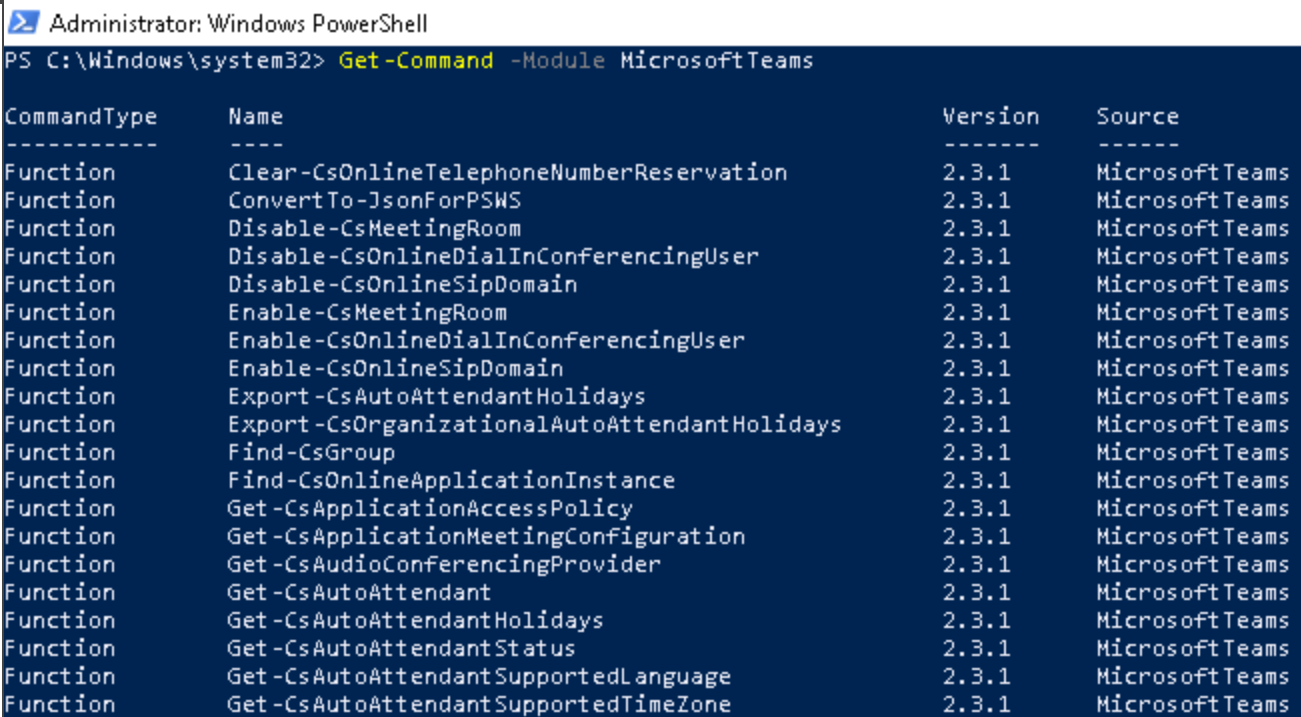
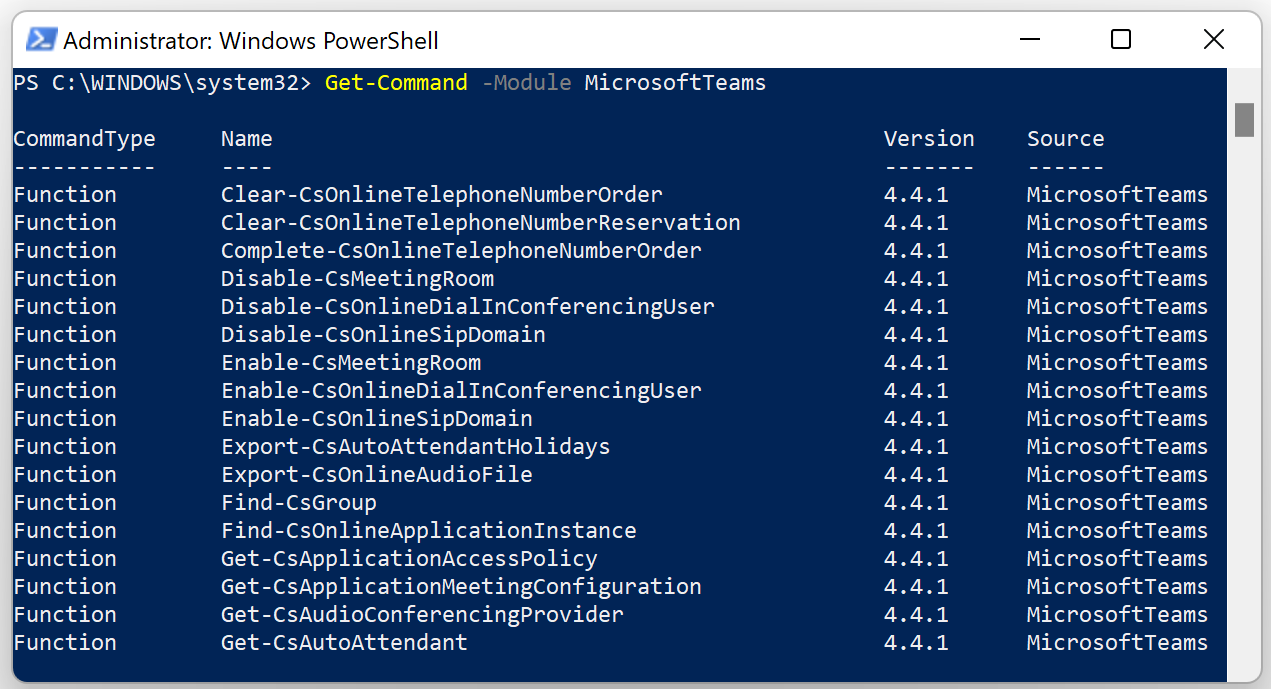
changed files by pdets auto publish service, publishid[5f0f91e5-4eea-41c9-ae62-5625b5081bd8] and do [publish].

diff --git a/learn-m365-pr/wwl/plan-deploy-microsoft-teams/includes/6-plan-for-teams-licensing.md b/learn-m365-pr/wwl/plan-deploy-microsoft-teams/includes/6-plan-for-teams-licensing.md
@@ -21,27 +21,27 @@ For a quick summary of the differences between Teams and Teams free, see [Differ
 
 ## Microsoft Teams add-on licenses
 
-Besides basic Teams features, there are add-on licenses for more features such as audio conferencing, phone system, calling plans, and Microsoft Teams rooms.
+Besides basic Teams features, there are add-on licenses for more features such as audio conferencing,  Teams Phone, calling plans, and Microsoft Teams rooms.
 
-* For audio conferencing, organizations will need to buy and assign an audio-conferencing license to each user who will set up dial-in meetings. 
+* For audio conferencing, organizations will need to buy and assign an audio-conferencing license to each user who will set up dial-in meetings.
 
-* For calling plans, each user will need a phone system plus a domestic or domestic and international calling plan. The table below lists the add-on licenses available for Teams:
+* For calling plans, each user will need a Teams Phone, plus a domestic or domestic and international calling plan. The add-on licensing options available to you depend on the Microsoft 365 or Office 365 plan you have.
 
-Here's a list of features that you can add with Teams add-on licenses. The add-on licensing options available to you depend on the Microsoft 365 or Office 365 plan you have.
+Here's a list of features that you can add with Teams add-on licenses. 
 
+|License|Description|
+|-------|-----------|
+|**Teams Phone with Calling Plan bundle** <br/> |The Teams Phone with Calling Plan license bundles Teams Phone System's PBX capabilities and a Domestic Calling Plan for PSTN connectivity. <br/> |
+|**Teams Phone Standard<br/>(Teams Phone System)** <br/> |[Teams Phone System](/microsoftteams/what-is-phone-system-in-office-365?azure-portal=true) is a hosted telephone service that gives you call control and Private Branch Exchange (PBX) capabilities. Teams Phone Standard licenses give you all Teams Phone System capabilities like cloud voicemail, caller ID, call park, call forwarding, auto attendants, call queues, call transfer, and caller ID. <br/> <br/>To learn more about Phone System, see [Here's what you get with Teams Phone System](/microsoftteams/here-s-what-you-get-with-phone-system?azure-portal=true). <br/> |
+|**Microsoft Teams Calling Plans** <br/> |If you want users to be able to call phone numbers outside your organization, you can purchase [Microsoft Teams Calling Plans](/microsoftteams/calling-plans-for-office-365?azure-portal=true) to connect to PSTN phone numbers with Microsoft as your PSTN provider. There are Domestic Calling Plans, International Calling Plans, and Domestic and International Calling Plans. <br/> <br/> To find out whether Teams Calling Plans is available in your country or region, see [Country and region availability for Audio Conferencing and Calling Plans](/microsoftteams/country-and-region-availability-for-audio-conferencing-and-calling-plans/country-and-region-availability-for-audio-conferencing-and-calling-plans?azure-portal=true). |
+|**Communication Credits** | Communication Credits provide a monthly pool of minutes that can also be used for PSTN phone calls, if all your Calling Plan minutes get used before the beginning of the next month.<br/><br/> If you want toll-free numbers for Audio Conferencing, auto attendants, or call queues, you'll need to [set up Communications Credits](/microsoftteams/set-up-communications-credits-for-your-organization?azure-portal=true). <br/> |
+|**Audio Conferencing** <br/> |Sometimes people in your organization will need to use a phone to call in to a Teams meeting instead of their computer. [Set up Audio Conferencing](/microsoftteams/set-up-audio-conferencing-in-teams?azure-portal=true) for users who schedule or lead meetings with attendees who need to call in using a phone. <br/> <br/>To find out whether Audio Conferencing is available in your country or region, see [Country and region availability for Audio Conferencing and Calling Plans](/microsoftteams/country-and-region-availability-for-audio-conferencing-and-calling-plans/country-and-region-availability-for-audio-conferencing-and-calling-plans?azure-portal=true). For pricing info, see [Pricing for Audio Conferencing](https://go.microsoft.com/fwlink/?linkid=799762).  <br/> <br/>Organizations can now use a third-party operator for their Audio Conferencing numbers. For more information, see [Plan for Operator Connect Conferencing](/microsoftteams/operator-connect-conferencing-plan?azure-portal=true). <br/>|
+|**Microsoft Teams Rooms** <br/> | Microsoft Teams Room is an additional Microsoft Teams product that brings video, audio, and content sharing to conference rooms. There are two dedicated SKUs for licensing meetings and calling on a per-device basis for meeting room devices:<br/><br/>**- Microsoft Teams Rooms Standard**<br/>**- Microsoft Teams Rooms Premium**<br/><br/>**Microsoft Teams Rooms Premium** includes a remote management service that enables customers to shift the operational responsibility of managing and monitoring Microsoft Teams Rooms to Microsoft. With Microsoft Teams Rooms Premium, customers have access to intelligent software, dedicated experts, and enhanced insights. For more information, see [Teams Meeting Room Licensing](/microsoftteams/rooms/rooms-licensing?azure-portal=true).|
 
-|**Feature** <br/> |**Description** <br/> |**Small business (<300 users)**|**Large business (>300 users)**|
-|:-----|:-----|:-----|:-----|
-|**Microsoft 365 Business Voice** <br/> | [Business Voice](/microsoftteams/business-voice/whats-business-voice?azure-portal=true) is a telephony solution designed for small and medium businesses of up to 300 users that bundles Phone System, Audio Conferencing, a Domestic Calling Plan, and more. Phone System capabilities that you'll get include voicemail, caller ID, call park, call forwarding, auto attendants, and call queues. <br> To find out whether Business Voice is available in your country or region, see [Country and region availability for Business Voice](/microsoftteams/business-voice/country-region-availability?azure-portal=true). For pricing info, see [Pricing for Business Voice](https://www.microsoft.com/microsoft-teams/voice-calling?azure-portal=true). <br/> |Yes||
-|**Audio Conferencing** <br/> |Sometimes people in your organization will need to use a phone to call in to a Teams meeting instead their computer. Set up Audio Conferencing for users who schedule or lead meetings. <br/> To find out whether Audio Conferencing is available in your country or region, see [Country and region availability for Audio Conferencing and Calling Plans](/microsoftteams/country-and-region-availability-for-audio-conferencing-and-calling-plans/country-and-region-availability-for-audio-conferencing-and-calling-plans?azure-portal=true). For pricing info, see [Pricing for Audio Conferencing](https://www.microsoft.com/microsoft-teams/audio-conferencing?azure-portal=true).  <br/> <br/>If you're a small or medium-sized business with up to 300 users and you currently don’t have Audio Conferencing licenses, you can get Audio Conferencing free for one year. Starting October 1, 2020, the free Audio Conferencing offer is available to users who have Microsoft 365 Business Basic, Business Standard, Business Premium, Enterprise E1, or Enterprise E3 licenses. |Yes|Yes|
-|**Toll free numbers** |If you want toll-free numbers for Audio Conferencing, auto attendants, or call queues, you must set up Communications Credits. <br/> |Yes|Yes|
-|**Phone System** <br/> |Phone System is a hosted telephone service that gives you call control and Private Branch Exchange (PBX) capabilities, with options for connecting to the Public Switched Telephone Network (PSTN). Phone System features include cloud voicemail, caller ID, call park, call forwarding, auto attendants, call queues, call transfer, caller ID, and more. <br>For pricing info, see [Pricing for Phone System](https://www.microsoft.com/microsoft-teams/voice-calling#Pricing?azure-portal=true).  <br/> |Yes|Yes|
-|**Calling Plans** <br/> |If you want users to be able to call phone numbers outside your organization, get a Calling Plan. There are Domestic Calling Plans and Domestic and International Calling Plans. For pricing info, see [Pricing for Calling Plans](https://www.microsoft.com/microsoft-teams/voice-calling?linkid=799761?azure-portal=true).  <br/> |Yes|Yes|
-|**Microsoft Teams Rooms** <br/>| Microsoft Teams Rooms isn't an add-on, but a feature that brings video, audio, and content sharing to conference rooms. See [Teams Meeting Room Licensing](/microsoftteams/rooms/rooms-licensing?azure-portal=true).  <br/> |Yes|Yes|
-|**Advanced Communications** <br/> |[Advanced Communications](/microsoftteams/teams-add-on-licensing/advanced-communications?azure-portal=true) includes advanced meetings customization and tools to manage your organization's communication policies. Other features include custom branded meeting lobby to tailor your meetings, and tools to monitor, track, and analyze data on users and devices.   |Yes|Yes|
+> [!NOTE]
+> **Microsoft 365 Business Voice** was Microsoft's voice capability bundle for small and medium businesses but will no longer be available to purchase starting on March 1, 2022. Current Business Voice subscribers can renew their Business Voice licenses until June 30, 2022. 
 
-If you're a small or medium-sized business who has a Microsoft 365 Enterprise plan, you can still buy add-on licenses for features of Phone System and Calling Plans, however, you can also consider a [Microsoft 365 Business](https://www.microsoft.com/microsoft-365/business/compare-all-microsoft-365-business-products?=&activetab=tab:primaryr2&azure-portal=true) plan and [Business Voice](https://www.microsoft.com/microsoft-365/business/business-voice?azure-portal=true).
-
+If you're a small or medium-sized business, we recommend purchasing the **Teams Phone with Calling Plan license**, if it's available in your region. Alternatively, you can purchase a Teams Phone Standard license that will allow you to connect to your preferred third-party PSTN provider. 
 
 ## Licensing for governance, security, and compliance features
 
@@ -49,7 +49,7 @@ Microsoft Teams is built on the Microsoft 365 and Office 365 hyper-scale, enterp
 
 * [Microsoft 365 licensing guidance for security & compliance](/office365/servicedescriptions/microsoft-365-service-descriptions/microsoft-365-tenantlevel-services-licensing-guidance/microsoft-365-security-compliance-licensing-guidance?azure-portal=true)
 
-* [Key governance capabilities and licensing requirements](https://docs.microsoft.com/microsoft-365/solutions/collaboration-governance-overview?azure-portal=true#key-governance-capabilities-and-licensing-requirements)
+* [Key governance capabilities and licensing requirements](/microsoft-365/solutions/collaboration-governance-overview?azure-portal=true#key-governance-capabilities-and-licensing-requirements)
 
 
 ## Licensing for guest access
@@ -60,6 +60,10 @@ Guest access is included with all Microsoft 365 Business Standard, Microsoft 365
 Due to the consequent development of Microsoft 365, available services and licenses change continuously. Teams administrators should always be ready to adopt to changes of the license requirements. For the latest update on licensing, see [Microsoft Teams service description](/microsoftteams/office-365-licensing?azure-portal=true).
 
 
-## Knowledge check
+ 
 
-Choose the best response for the following question. Then select “Check your answers.”
+
+
+
+
+

diff --git a/learn-m365-pr/wwl/plan-deploy-microsoft-teams/includes/7-clients.md b/learn-m365-pr/wwl/plan-deploy-microsoft-teams/includes/7-clients.md
@@ -1,4 +1,4 @@
-Microsoft Teams has clients available for desktop (Windows, Mac, and Linux), web, and mobile (Android and iOS). There are different ways to deploy Teams clients based on devices. 
+Microsoft Teams has clients available for desktop (Windows, Mac, and Linux), web, and mobile (Android and iOS). Microsoft also offers Teams for Virtualized Desktop Infrastructure (VDI) environments. There are different ways to deploy Teams clients based on devices. 
 
 ## Deploy Teams desktop clients 
 The Microsoft Teams desktop clients provide real-time communications support (audio, video, and content sharing) for team meetings, group calling, and private one-on-one calls.
@@ -7,9 +7,10 @@ The Microsoft Teams desktop clients provide real-time communications support (au
 
 The desktop client is available for the following operating systems:
 
-- **Windows**. Windows (8.1 or later) and Windows Server (2012 R2 or later), 32-bit and 64-bit versions.
+- **Windows**. Windows (8.1 or later) and Windows Server (2012 R2 or later), 32-bit and 64-bit versions, ARM64 for Windows 10 on ARM.
 - **macOS**. the three most recent versions of macOS.
 - **Linux**. .deb and.rpm formats.
+- **Chrome OS** 
 
 As a Teams administrator, you can choose your preferred method to distribute the installation files to computers in your organization. For example, you can use Microsoft Endpoint Configuration Manager for Windows operating systems or Jamf Pro for macOS. There are several ways to deploy Teams desktop clients:
 
@@ -126,7 +127,7 @@ The web client [https://teams.microsoft.com](https://teams.microsoft.com?azure-p
 
 The web client supports Calling and Meetings by using webRTC, so there is no plug-in or download required to run Teams in a web browser. The browser must be configured to allow third-party cookies.
 
-The Teams web client is available for various different browsers, including Edge, Chrome, and Safari. For the list of supported browser, see [Web client](https://docs.microsoft.com/microsoftteams/get-clients?azure-portal=true#web-client).
+The Teams web client is available for various different browsers, including Edge, Chrome, and Safari. For the list of supported browser, see [Web client](/microsoftteams/get-clients?azure-portal=true#web-client).
 
 
 ## Client update management

diff --git a/learn-m365-pr/wwl/plan-deploy-microsoft-teams/includes/1-introduction.md b/learn-m365-pr/wwl/plan-deploy-microsoft-teams/includes/1-introduction.md
@@ -1,13 +1,13 @@
-Even though Microsoft Teams focuses considerable attention on self-service, there are still some essential management and implementation tasks that must be completed to maximize a deployment’s effectiveness. For example, even when implementing self-service features, some policies that you create to guide users are important and should be planned with the appropriate diligence.
+Even though Microsoft Teams focuses considerable attention on self-service, there are still some essential management and implementation tasks that must be completed to maximize a deployment’s effectiveness. 
 
-In this module you will learn about rollout paths to deploy Teams, user adoption, and licensing. By the end of the module you should have insight into the different management tools that are available with Teams, and the different clients that can work with Teams content. You will also learn how to interpret Microsoft 365 and Teams usage reports to understand user adoption. 
+In this lesson you will learn about rollout paths to deploy Teams, user adoption, and licensing. By the end of the module, you should have insight into the different admin roles available, management tools that are available with Teams, licensing requirements. and the different clients that can work with Teams content. 
 
 After this module, you will be able to:
 
-- Describe different Teams admin roles. 
-- Describe available admin tools to manage Teams.
-- Plan for Teams rollout and adoption. 
-- Identify required licensing for Teams. 
-- Deploy Teams clients. 
-- Analyze usage patterns by monitoring Microsoft 365 and Teams usage reports. 
-- Interpret Microsoft Productivity Score.
+* Describe different Teams admin roles
+* Explain which management tools are available for Teams
+* Plan for Teams rollout 
+* Understand the importance of a user adoption plan when deploying Teams
+* Identify required licensing for Teams
+* Deploy Teams clients
+

diff --git a/learn-m365-pr/wwl/plan-deploy-microsoft-teams/includes/3-understand-teams-management-tools.md b/learn-m365-pr/wwl/plan-deploy-microsoft-teams/includes/3-understand-teams-management-tools.md
@@ -1,3 +1,5 @@
+
+
 Managing the various aspects of Microsoft Teams can be performed using various tools. Basic tasks, such as creating and editing Teams settings, adding or removing members, and adding, removing, and configuring apps can be performed by users through one of the Teams clients. Administrative tasks must be performed with administrative roles and through the Teams Admin Center, the Teams PowerShell module, or Microsoft Graph API. 
 
  
@@ -68,7 +70,7 @@ Get-Command -Module MicrosoftTeams
 
 
 > [!NOTE]
-> The Microsoft Teams PowerShell module with version **1.1.6** or above is integrated with Skype for Business Online Connector, providing a single module for Teams PowerShell management. 
+> Microsoft Teams PowerShell module versions earlier than 4.x.x are retiring. If you already installed the module with the command ```Install-Module -Name MicrosoftTeams```, you can use the command ```Update-Module MicrosoftTeams``` to get the latest version.
 
 For more information, please refer to [Teams PowerShell Overview](/MicrosoftTeams/teams-powershell-overview?azure-portal=true).
 
@@ -147,7 +149,3 @@ External apps are provided by third parties. You can configure the following set
 
 The Microsoft 365 Defender portal and Microsoft 365 compliance center are designed to help you manage compliance features across Microsoft 365 for your organization, including Teams. Links to existing SharePoint and Exchange compliance features bring together compliance capabilities across Microsoft 365. To use the Microsoft 365 Defender portal, you must either be assigned the global administrator role or have been assigned to one or more Microsoft 365 Defender portal role groups by a global administrator.
 
-
-## Knowledge check
-
-Choose the best response for the following question. Then select “Check your answers.”
